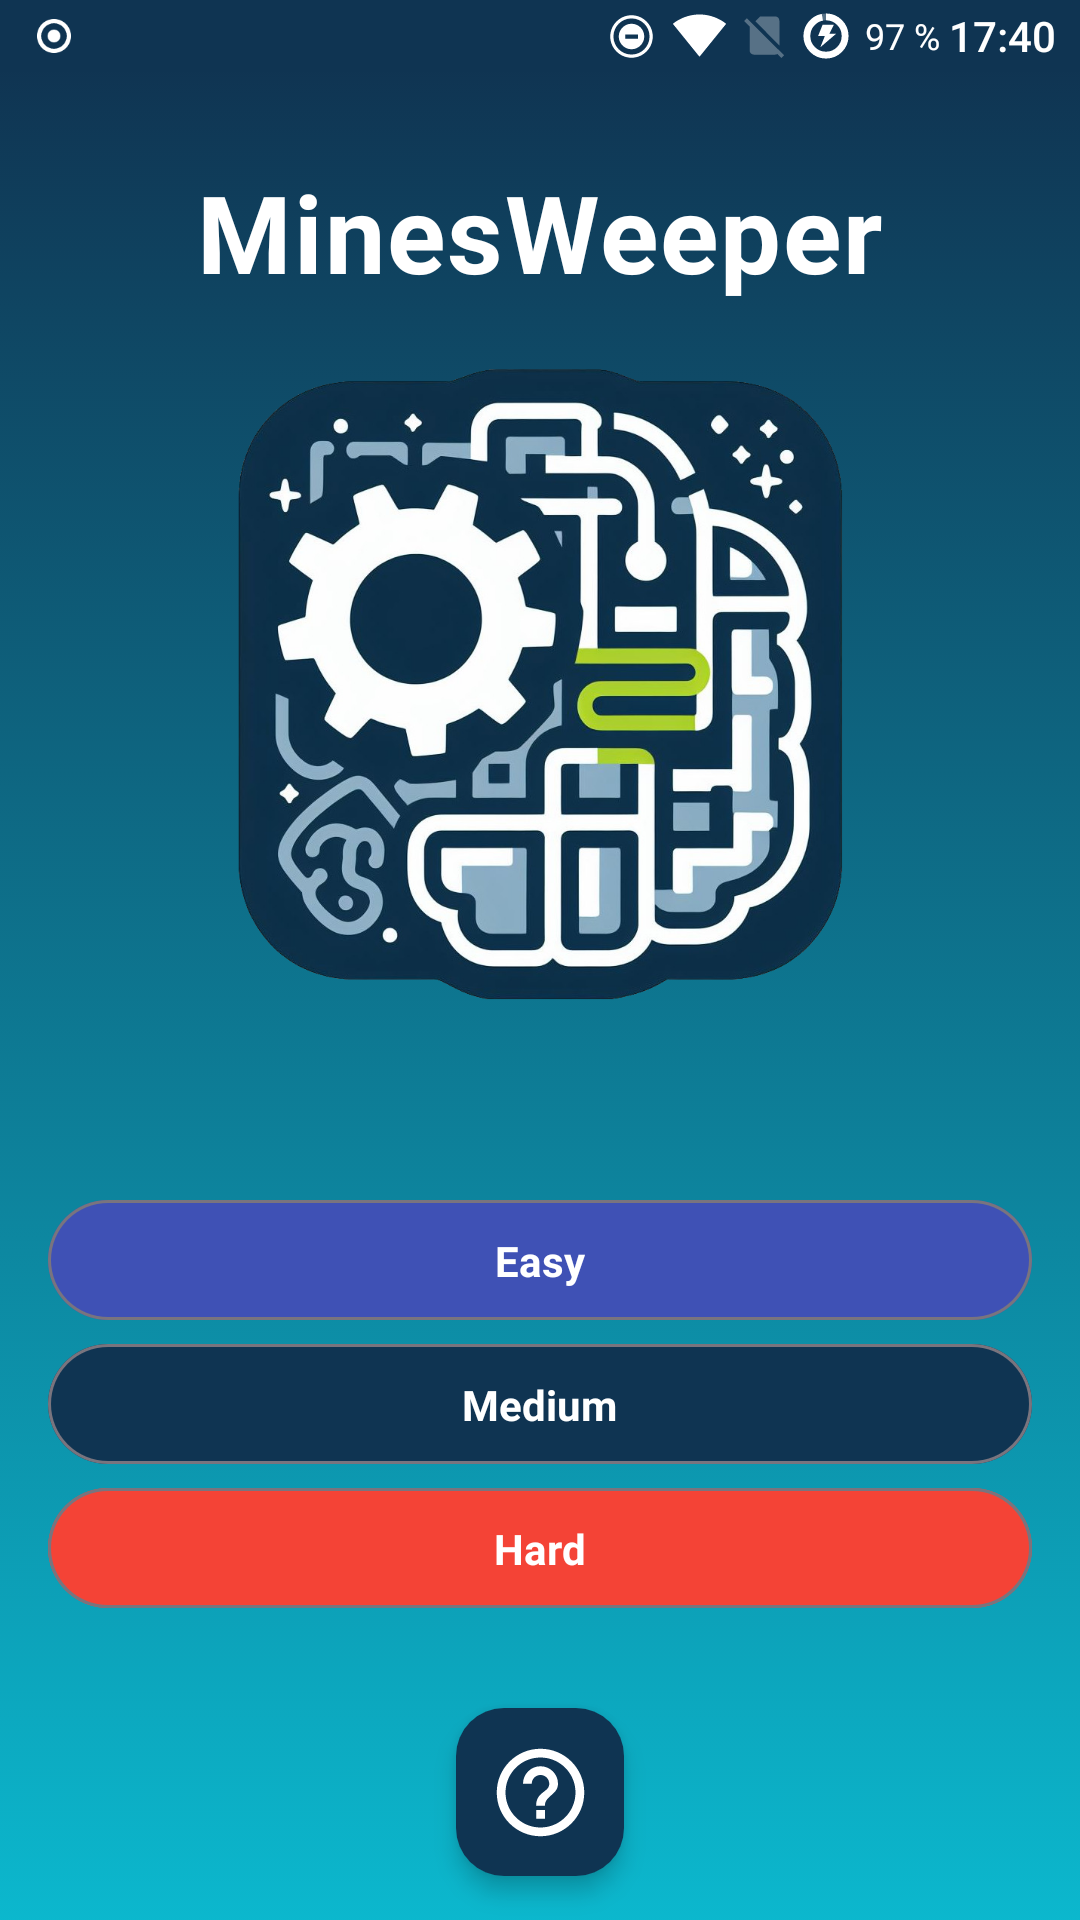
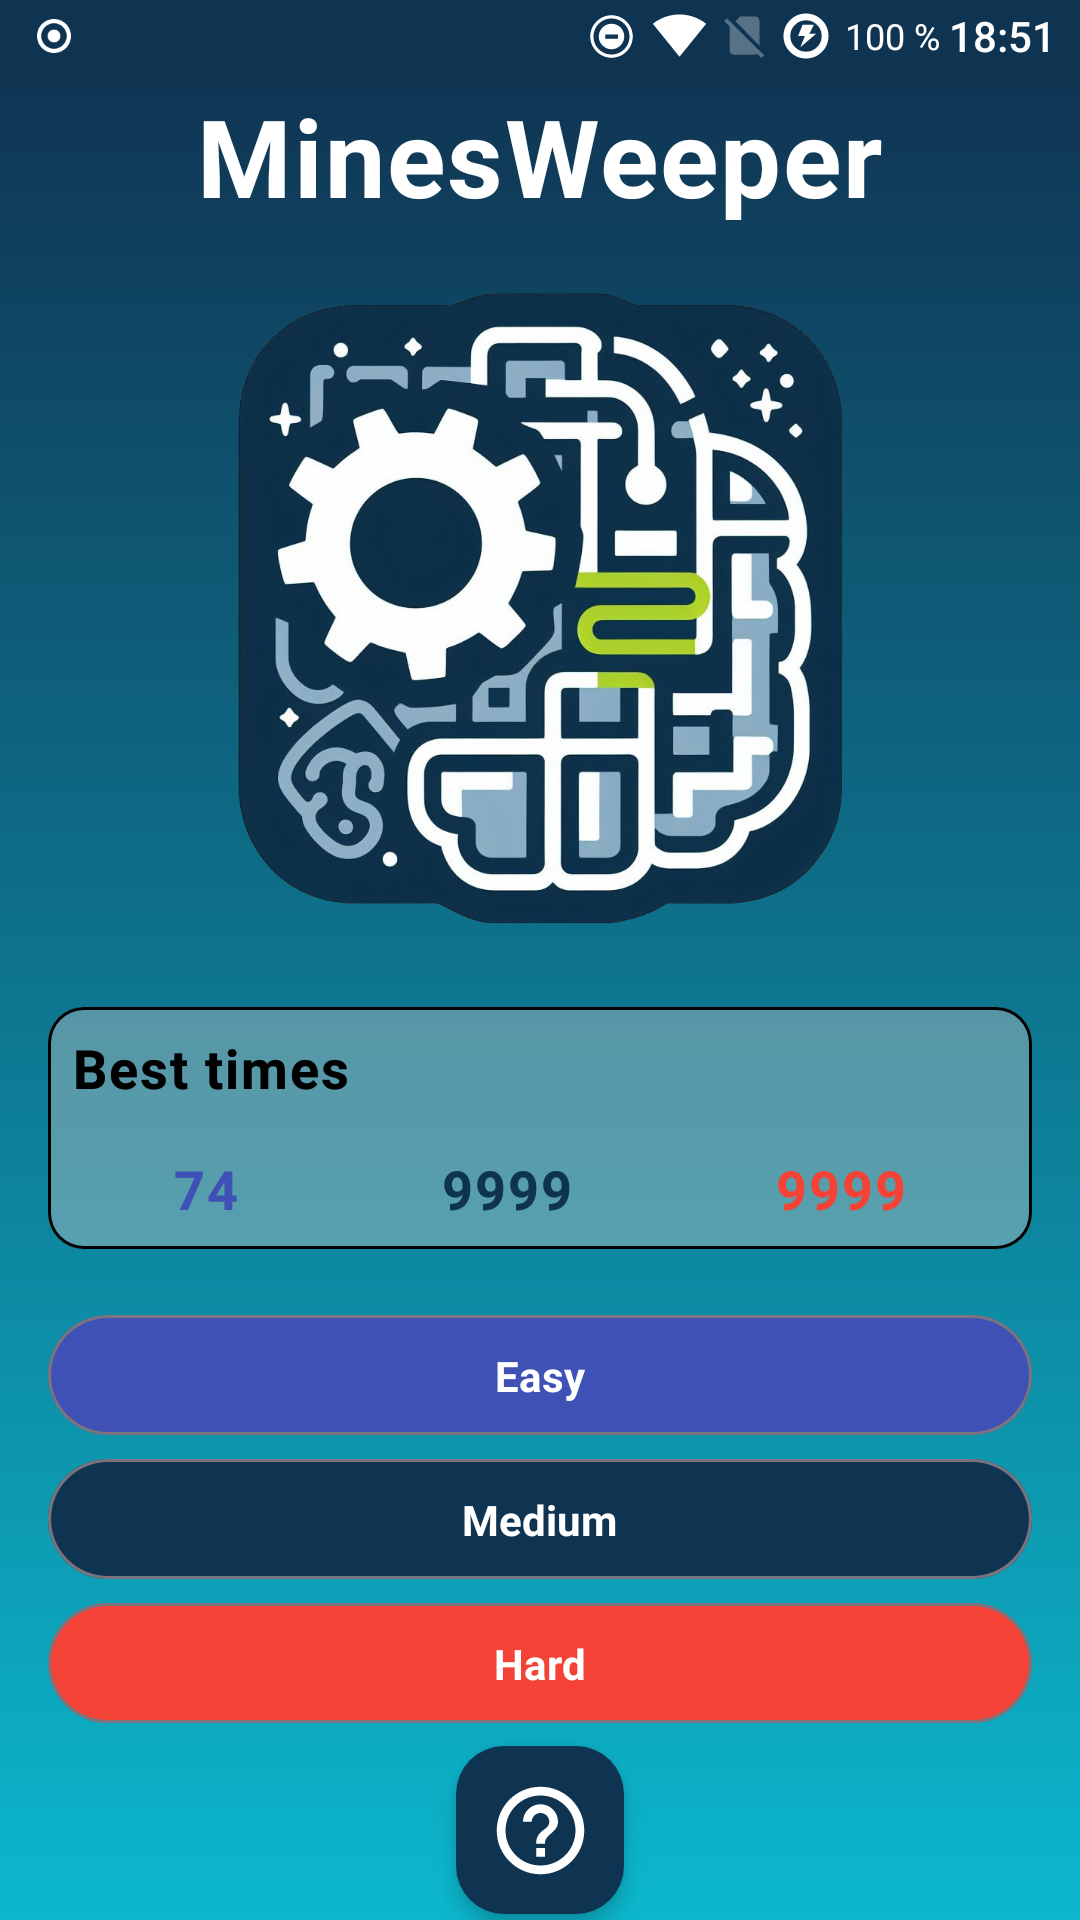
First release is completed

diff --git a/app/src/main/java/es/rlujancreations/minesweeper/ui/home/HomeScreen.kt b/app/src/main/java/es/rlujancreations/minesweeper/ui/home/HomeScreen.kt
@@ -1,17 +1,25 @@
 package es.rlujancreations.minesweeper.ui.home
 
+import androidx.compose.foundation.BorderStroke
 import androidx.compose.foundation.Image
 import androidx.compose.foundation.background
 import androidx.compose.foundation.layout.Arrangement
 import androidx.compose.foundation.layout.Column
+import androidx.compose.foundation.layout.Row
 import androidx.compose.foundation.layout.Spacer
 import androidx.compose.foundation.layout.fillMaxSize
+import androidx.compose.foundation.layout.fillMaxWidth
 import androidx.compose.foundation.layout.padding
 import androidx.compose.foundation.layout.size
+import androidx.compose.material3.Card
+import androidx.compose.material3.CardDefaults
 import androidx.compose.material3.FloatingActionButton
 import androidx.compose.material3.Icon
+import androidx.compose.material3.OutlinedCard
 import androidx.compose.material3.Text
 import androidx.compose.runtime.Composable
+import androidx.compose.runtime.collectAsState
+import androidx.compose.runtime.getValue
 import androidx.compose.ui.Alignment
 import androidx.compose.ui.Modifier
 import androidx.compose.ui.graphics.Brush
@@ -28,6 +36,7 @@ import es.rlujancreations.minesweeper.data.Level
 import es.rlujancreations.minesweeper.ui.composables.OutlinedCustomButton
 import es.rlujancreations.minesweeper.ui.theme.DarkBlue
 import es.rlujancreations.minesweeper.ui.theme.LightBlue
+import es.rlujancreations.minesweeper.ui.theme.RecordsBoard
 
 
 /**
@@ -40,6 +49,8 @@ fun HomeScreen(
     navigateToGame: (Level) -> Unit,
     navigateToHelp: () -> Unit,
 ) {
+    val records by homeViewModel.recordsState.collectAsState()
+
     Column(
         modifier = Modifier
             .fillMaxSize()
@@ -58,6 +69,30 @@ fun HomeScreen(
                 .size(220.dp)
         )
         Spacer(modifier = Modifier.weight(2f))
+        OutlinedCard(
+            colors = CardDefaults.cardColors(containerColor = RecordsBoard),
+            border = BorderStroke(1.dp, Color.Black),
+            modifier = Modifier
+                .fillMaxWidth()
+                .padding(16.dp),
+        ) {
+            RecordText(
+                text = stringResource(id = R.string.best_times),
+                color = Color.Black,
+                modifier = Modifier.padding(8.dp)
+            )
+            Row(
+                modifier = Modifier
+                    .fillMaxWidth()
+                    .padding(8.dp),
+                horizontalArrangement = Arrangement.SpaceAround
+            ) {
+                RecordText(text = records.easy, color = Color(0xFF3F51B5))
+                RecordText(text = records.medium, color = Color(0xFF0F3452))
+                RecordText(text = records.hard, color = Color(0xFFF44336))
+            }
+        }
+        Spacer(modifier = Modifier.weight(0.5f))
 
         OutlinedCustomButton(
             text = R.string.btn_play_easy,
@@ -73,7 +108,7 @@ fun HomeScreen(
             onClick = { navigateToGame(Level.Hard) })
 
         Spacer(modifier = Modifier.weight(1f))
-        FloatingActionButton(containerColor = DarkBlue,onClick = { navigateToHelp() }) {
+        FloatingActionButton(containerColor = DarkBlue, onClick = { navigateToHelp() }) {
             Icon(
                 modifier = Modifier.size(35.dp),
                 painter = painterResource(id = R.drawable.ic_help),
@@ -83,4 +118,15 @@ fun HomeScreen(
         }
         Spacer(modifier = Modifier.weight(0.5f))
     }
+}
+
+@Composable
+private fun RecordText(text: String, color: Color, modifier: Modifier = Modifier) {
+    Text(
+        modifier = modifier,
+        text = text,
+        color = color,
+        fontSize = 18.sp,
+        fontWeight = FontWeight.Bold
+    )
 }

diff --git a/app/src/main/java/es/rlujancreations/minesweeper/ui/home/HomeViewModel.kt b/app/src/main/java/es/rlujancreations/minesweeper/ui/home/HomeViewModel.kt
@@ -21,8 +21,8 @@ class HomeViewModel @Inject constructor(
 ) :
     ViewModel() {
 
-    private var _recordsState = MutableStateFlow<Array<String>>(arrayOf("999", "999", "999"))
-    val records: StateFlow<Array<String>> = _recordsState
+    private var _recordsState = MutableStateFlow(RecordState())
+    val recordsState: StateFlow<RecordState> = _recordsState
 
     init {
         loadRecords(level = Level.Easy)
@@ -35,14 +35,18 @@ class HomeViewModel @Inject constructor(
             val record = async {
                 databaseServiceImpl.getRecordByLevel(level = level).first()
             }.await()
-            val index = when (level) {
-                Level.Easy -> 0
-                Level.Hard -> 1
-                Level.Medium -> 2
+            _recordsState.value =  when (level) {
+                Level.Easy -> _recordsState.value.copy(easy = record)
+                Level.Medium -> _recordsState.value.copy(medium = record)
+                Level.Hard -> _recordsState.value.copy(hard = record)
             }
-            _recordsState.value[index] = record
         }
     }
 }
 
+data class RecordState(
+    val easy: String = "9999",
+    val medium: String = "9999",
+    val hard: String = "9999",
+)
 

diff --git a/app/src/test/java/es/rlujancreations/minesweeper/data/BoardTest.kt b/app/src/test/java/es/rlujancreations/minesweeper/data/BoardTest.kt
@@ -1,0 +1,47 @@
+package es.rlujancreations.minesweeper.data
+
+import org.junit.Assert.assertEquals
+import org.junit.Before
+import org.junit.Test
+
+
+/**
+ * Created by Raúl L.C. on 15/1/24.
+ */
+class BoardTest{
+
+    private lateinit var board: Board
+
+    @Before
+    fun setUp(){
+        board = Board()
+    }
+
+    @Test
+    fun `check if the number of mines matches with level`(){
+        val level = Level.Hard
+        board.initialize(level)
+
+        assertEquals(level.mines,board.getMines())
+    }
+
+    @Test
+    fun `check cell with valid coordinates returns cell value`(){
+        val level = Level.Easy
+        board.initialize(level)
+
+        val cellValue = board.getCell(0,0)
+
+        assertEquals(true,cellValue >=-1 && cellValue <=4  )
+    }
+
+    @Test
+    fun `check cell with invalid coordinates returns default value`(){
+        val level = Level.Medium
+        board.initialize(level)
+
+        val cellValue = board.getCell(-1,0)
+
+        assertEquals(0,cellValue)
+    }
+}

diff --git a/app/src/main/java/es/rlujancreations/minesweeper/ui/theme/Color.kt b/app/src/main/java/es/rlujancreations/minesweeper/ui/theme/Color.kt
@@ -20,6 +20,7 @@ val CounterFontColor =Color(0xFFF50E02)
 
 val HeaderBackground =Color(0xFFB3B1B1)
 val BoardBackground =Color(0xFFC6C6C6)
+val RecordsBoard = Color(0x66C6C6C6)
 
 
 

diff --git a/README.md b/README.md
@@ -11,7 +11,8 @@ This is my version of the classic game minesweeper developed in kotlin
 - [ X ] Toast for alerts. Only when the user has no more mines
 - [ X ] Animations. Only in Dialogs
 - [ X ] Persistence for save records
-- [ ] Dialog records
+- [ X ] Show records on HomeScreen
+- [ X ] Board Test Created
 
 # Screenshots
 <img src="./githubimages/home.png"
